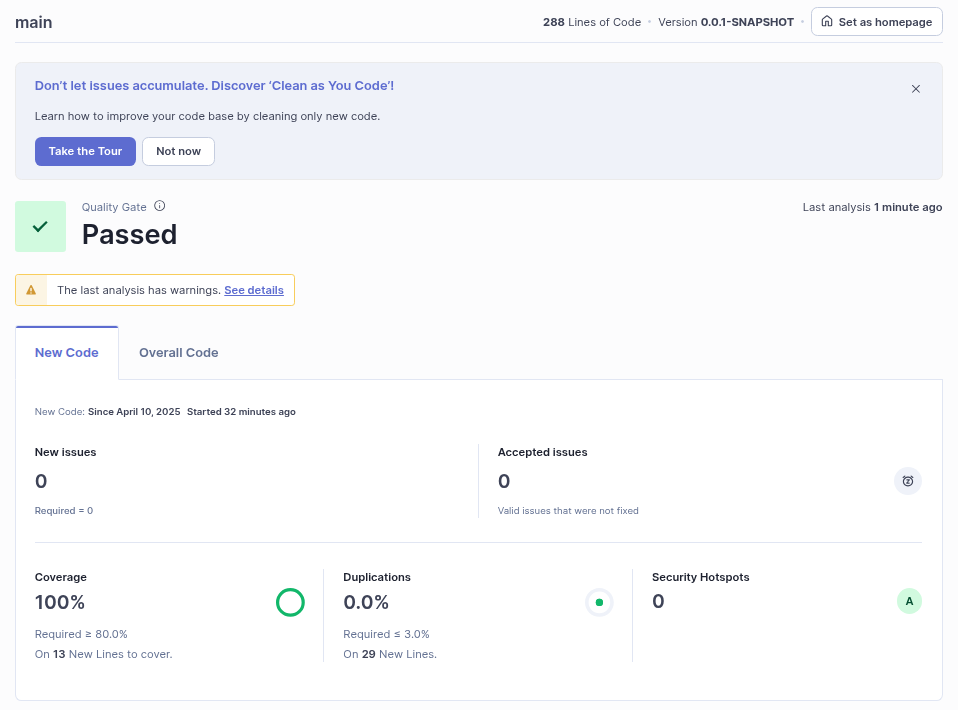
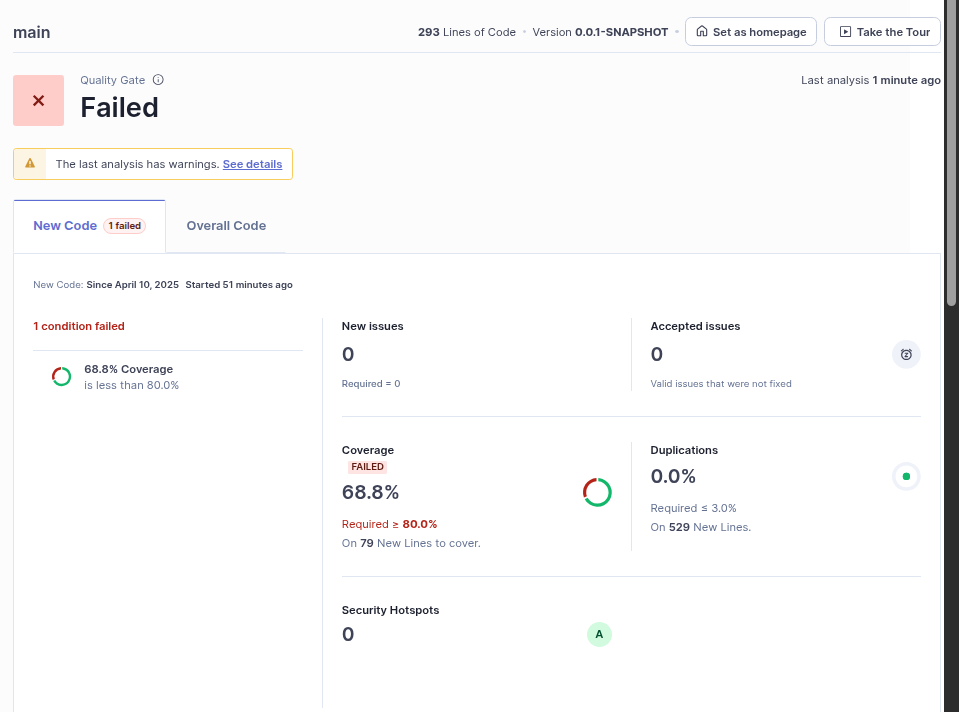
ex3 fixed

diff --git a/lab8/lab8_2cars/README.md b/lab8/lab8_2cars/README.md
@@ -154,10 +154,12 @@ New Static analysis run
 
 # f)
 
-My project is passing the quality gate.
-![alt text](image-5.png)
+My project is not passing the quality gate.
 ![alt text](image-4.png)
+![alt text](image-5.png)
+The coverage is failling, the rest is passing.
 
 # g)
 More flexible quality gate.
-![alt text](image-6.png)
+![alt text](image-8.png)
+![alt text](image-7.png)
